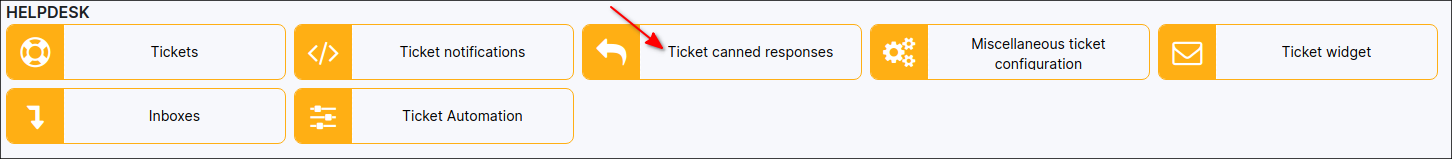
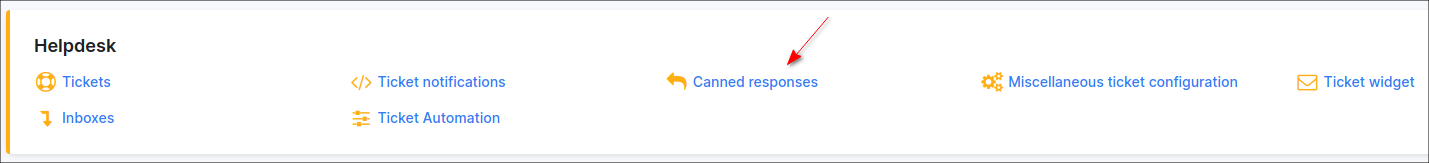
added info from SPL-8711

diff --git a/files/en/my_profile/profile/profile.md b/files/en/my_profile/profile/profile.md
@@ -3,40 +3,67 @@ Profile
 
 Administrators can customize their profile details here. Details like photo, password and signatures can be personalized, saved column preferences can be reset, tickets canned responses, its groups, logout time and two-factor authentication can be configured here for the admin as well.
 
-![Profile](profile1.png)
+![image](1.png)
 
-**Profile** - displays the full name of the current administrator and a photo can be added here. In order to change your photo/avatar just click on the default profile image, in the new window you can choose one of the built-in avatars or your own photo. The custom image requirements are: file with *jpg/jpeg/png/bmp* extension, size is not more than 5 megabytes. Zoom and visible image region selection functions are supported.
+**Profile** - displays the full name of the current administrator and a photo can be added here. In order to change your photo/avatar just click on the default profile image, in the new window you can choose one of the built-in avatars or your own photo.
+The custom image requirements are: file with *jpg/jpeg/png/bmp* extension, size is not more than 5 megabytes. Zoom and visible image region selection functions are supported.
 
-![](img_v3.2_000001.png)
+![image](2.png)
 
-![](img_v3.2_000002.png)
+![image](3.png)
+
+![image](4.png)
 
 **Change Password** - to change the current password of the administrator the old password needs to be entered first and the new password can be entered and confirmed with the fields provided.
 
+![image](5.png)
+
 **Two-Factor-Authentication** - for enhanced security, administrators can choose to enable and configure two-factor-authentication to log into their profile. All platforms are supported. You can use [FreeOPT+](https://github.com/helloworld1/FreeOTPPlus) or any other app on your smartphone to scan the QR code.
 
-![Two factor](2factor.png)
+![image](6.png)
+
+![image](7.png)
 
 **Change Timeout** - you can choose to enable and set a timeout period for auto-logout or simply leave the value on 0 to disable this function.
 
+![image](8.png)
+
 **Reset Columns** - all [columns](configuration/system/additional_fields/additional_fields.md) that were added to the default view of any table within Splynx can be reset with this function.
 
-![Profile](profile2.png)
+![image](9.png)
 
 **Support** - administrators can add a signature here to use in ticket responses.
 
+![image](10.png)
+
 **Canned groups** - groups for canned responses can be created here to organize and group canned responses. Simply click on the `+` add button to create a new group.
 
-![Add canned groups](add_canned_groups.png)
+![image](11.png)
 
-![Add canned groups](add_canned_groups2.png)
+ You can create the additional group (-s), just click on **Add** button at the top-right corner of the table and specify the group name e.g. *Support*, *Network* etc.
 
-**Canned responses** - pre-configured responses for tickets can be created and saved here to optimize response time and improve efficiency. Simply click on the `+` add button to add a new response.
+**NOTE:** Canned group names in `My profile` and `Config → Helpdesk → Canned responses` cannot be the same.
 
-![Add canned response](add_canned_response.png)
+![image](12.png)
 
-![Add canned response](add_canned_response2.png)
+`Personal` group is not visible in the table but it's used by default for new responses. The responses created in `My profile` are unique to each user and cannot be used by other administrators in Splynx (except super administrator).
 
-Use *canned responses* and its groups when you create or reply to a ticket, just click on <icon class="image-icon">![can_resp](can_resp.png)</icon> icon, then select the required group and click on the canned response title to insert the text into message field.
+**Canned responses** - pre-configured responses for tickets can be created and saved here to optimize response time and improve efficiency. Simply click on the `+` add button to add a new response. By default
 
-![Add canned response](add_canned_response3.png)
+![image](13.png)
+
+![image](14.png)
+
+* **Title** - the title name of the response. Make sure to choose an easy recognizable response title that you can understand.;
+
+* **Canned responses group** - choose the group you'd like to place this new canned response into. By default, `Personal` group is used. The additional groups can be created in **Canned groups** section above;
+
+* **Visibility** - choose where the created response can be inserted: `All`, `Tickets` or `Messages`. By default `All` value is used;
+
+* **Text** - the canned response text body. The pre-formatted replies can be customized by customer name, agent signature, links etc. using the dynamic [placeholders](configuration/system/templates/templates_variables/templates_variables.md).
+
+Use *canned responses* withing its groups when you create or reply to a ticket/message, just click on <icon class="image-icon">![can_resp](can_resp.png)</icon> icon, then find the required group and click on the canned response title to insert the text into message field.
+
+![image](15.png)
+
+The information how to created the canned responses for all administrators in Splynx you can find in [Canned responses](configuration/support/ticket_canned_responses/ticket_canned_responses.md) article.

diff --git a/files/en/configuration/support/ticket_canned_responses/ticket_canned_responses.md b/files/en/configuration/support/ticket_canned_responses/ticket_canned_responses.md
@@ -1,25 +1,53 @@
-Ticket canned responses
+Canned responses
 =============
-`Config -> Tickets -> Ticket canned responses`
+
+**Canned responses** are the pre-formatted responses used to avoid spending time on commonly asked questions. The technicians can spend hours replying to customers' requests, often times writing out the same response for different customers with the same issue. You can save time and improve support team work by adding *Canned Responses* to the tickets and messages in Splynx.
+
+In order to create canned responses, you need to identify the requests faced frequently by support or sales teams. It gives you clarity about the issues and you can develop the best canned messages.
+
+Through the following tutorial, we will learn how to use *Canned responses* and get to know its features.
+
+Navigate to `Config → Helpdesk → Canned responses`
 
 ![canned responses icon](icon.png)
 
-Quick replies for tickets can be added here. Specific text which you use frequently can be added to canned responses and by clicking on just 2 buttons, this text will be loaded to the ticket message.
+On this page the two sections are available:
+
+**Canned groups**
+
+Using groups can help you sort responses by topics for faster and easier locating.
 
 ![groups](groups_list.png)
 
-Using groups can help you, sort responses by topics for faster and easier locating.
+By default, `Global` group is used but it's not visible in the table. You can create the additional group (-s), just click on **Add** button at the top-right corner of the table and specify the group name e.g. *Support*, *Sales*, *Marketing*, *Returns and Refunds* etc.
 
-Simply click on the `"+"` icon on the canned responses tab to add a new response.
+![groups](create_group.png)
 
-![add response](add_response.png)
+**Canned responses**
 
-After adding a response, you will see it in your of list responses.
+To add the new canned response (-s), click on **Add** button at the top-right corner of the table, in new opened window the following fields are present:
 
-![responses list](responses_list.png)
+![response](canned_responses.png)
 
-Thereafter these canned responses can be used in ticket replies:
+![response](add_canned_responses.png)
+
+* **Title** - the title name of the response. Make sure to choose an appropriate response title that you (and your agents) can understand;
+* **Canned responses group** - choose the group you'd like to place this new canned response into. By default, `Global` group is used, it allows to administrator access to all tickets on the system. The additional groups can be created in **Canned groups** section above;
+* **Agents in group** - for which group of tickets and associated agents the response will be available. Can be chosen the next values: `No one` (default), `IT`, `Finance`, `Sales`. For example, a canned response for *Request for features* can be made visible just to your `Finance` group, as other teams will have no use for it.
+The ticket groups can be edited in `Config → Helpdesk → Miscellaneous ticket configuration`. To know more about how to manage the ticket groups agents, you can refer the article
+[Admins and permissions](administration/main/admins_and_permissions/admins_and_permissions.md) (see *Helpdesk* chapter);
+* **Visibility** - choose where the created response can be inserted: `All`, `Tickets` or `Messages`. By default `Tickets` value is used;
+* **Text** - the canned response text body. The pre-formatted replies can be customized by customer name, agent signature, links etc. using the dynamic [placeholders](configuration/system/templates/templates_variables/templates_variables.md).
+
+Click **Add** to save your canned response. If you'd like to edit a previously-saved response, just click on <icon class="image-icon">![image](edit.png)</icon> (*Edit*) icon.
+
+**NOTE:**
+
+- The canned responses which are created in relation to specific group can be viewed and used in tickets/messages by any technician with the appropriate permissions;
+
+- The canned responses can be created by a specific admin for personal use only, the replies can be divided into groups as well. Such responses are unique to each user and cannot be used by other administrators in Splynx (except super administrator). For more information, see [My profile](my_profile/profile/profile.md).
+
+
+Now your agents can choose the canned response you created in a ticket or message by clicking on <icon class="image-icon">![image](response_icon.png)</icon> (*Canned Response*) icon, when clicked, it will display the list of available canned responses. Click on the response you'd like to add to your reply, it will load and insert the pre-formatted message, along with dynamic content is now added to the reply, ready to be sent to the customer.
 
 ![reply with](reply_with.png)
-
-By clicking on a canned response, it will load the content of the canned response which will save you valuable time.
